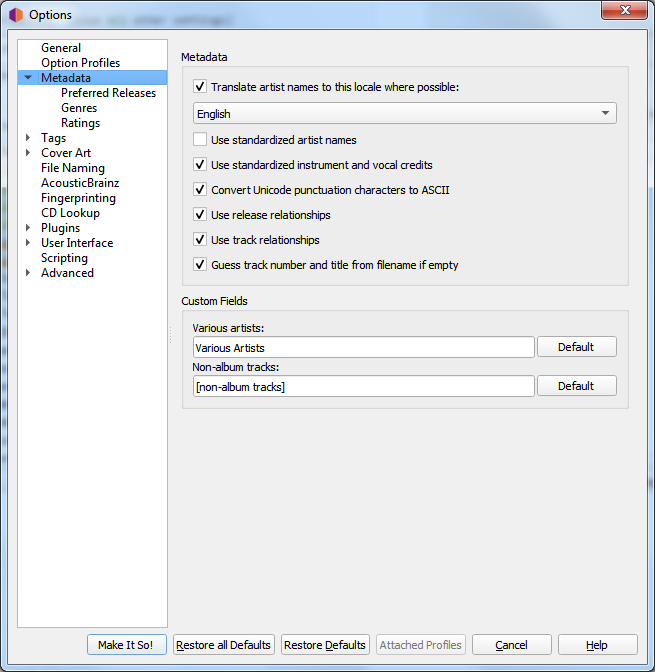
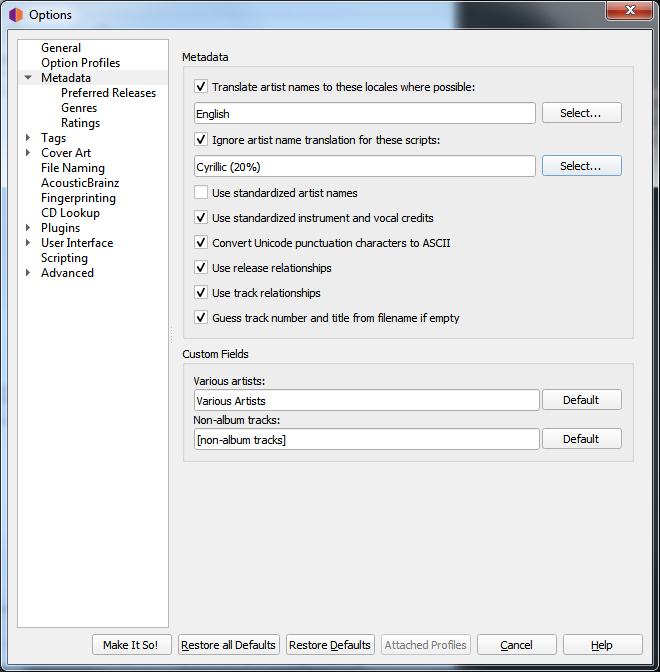
Add information about new artist name translation options.

diff --git a/config/options_metadata.rst b/config/options_metadata.rst
@@ -8,9 +8,53 @@
 
 **Translate artist names to this locale where possible**
 
-   When checked, Picard will see whether an artist has an alias for the selected locale. If it does, Picard will use that
-   alias instead of the artist name when tagging. When "English" is the selected locale, the artist sort name (which is,
-   by Style Guideline, stored in Latin script) is used as a fallback if there is no English alias.
+   When checked, Picard will check each of the selected locales in order to see whether an artist has an alias for that
+   locale. If it does, Picard will use that alias instead of the artist name when tagging. For example, if you have selected
+   locales of "English (Canadian)" and "English (US)", and there are aliases for "English (US)", "English" and "Greek", then
+   the "English (US)" alias will be used.
+
+   Note that Picard will attempt to use the first exact match first.  For example, if you have selected locales of "English
+   (Canadian)", "English (US)" and "Greek, and there are aliases for "English" and "Greek", then the "Greek" alias will be used.
+
+   If there are no exact matches to any of the selected locales, then Picard will attempt to find a match based on the root
+   locale.  For example, if you have selected locales of "English (Canadian)", "English (US)" and "Greek (Cyprus)", and there
+   are aliases for "English (UK)" and "Greek", then the "English (UK)" alias will be used.
+
+   When "English" is the selected locale, the artist sort name (which is, by Style Guideline, stored in Latin script) is used
+   as a fallback if there is no English alias.
+
+   To select which locales to use, click the :guilabel:`Select...` button beside the list of selected locales. This will bring up
+   a new dialog window where you can add, remove or reorder your list of selected locales.
+
+   .. image:: images/locale_selector.png
+      :width: 100%
+
+   Once you are satisfied with your selections, click the :guilabel:`Save` button to transfer the list to your option settings
+   and close the dialog. Note that the changes will not be saved permanently until you click the :guilabel:`Make It So!` button.
+
+**Ignore artist name translation for script**
+
+   Sometimes you may not want to have the artist names translated if they appear in a certain character set script.  When checked,
+   this option will tell Picard to not perform the artist name translation if it is written using one of the selected scripts.
+
+   Each selected script includes a matching threshold value used to determine if that script should be used. When an artist name is
+   evaluated to determine if it matches one of your selected scripts, it is first parsed to determine which scripts are represented
+   in the name, and what weighted percentage of the name belongs to each script. Then each of your selected scripts are checked, and
+   if the name contains characters belonging to the script and the percentage of script characters in the name meets or exceeds the
+   match threshold specified for the script, then the artist name will not be translated.
+
+   For example, if "Translate artist names" is enabled with the locale set to "English", and you enable "Ignore artist name translation"
+   with the scripts set to "Greek (30%)" and "Cyrillic (50%)", any artist names that contain 30% Greek characters or 50% Cyrillic
+   characters will not be translated and will appear in their origin form.
+
+   To select which character set scripts to use and their weighting thresholds, click the :guilabel:`Select...` button beside the list of
+   selected scripts. This will bring up a new dialog window where you can add, edit or remove items in your list of selected scripts.
+
+   .. image:: images/script_selector.png
+      :width: 100%
+
+   Once you are satisfied with your selections, click the :guilabel:`Save` button to transfer the list to your option settings
+   and close the dialog. Note that the changes will not be saved permanently until you click the :guilabel:`Make It So!` button.
 
 **Use standardized artist names**
 
